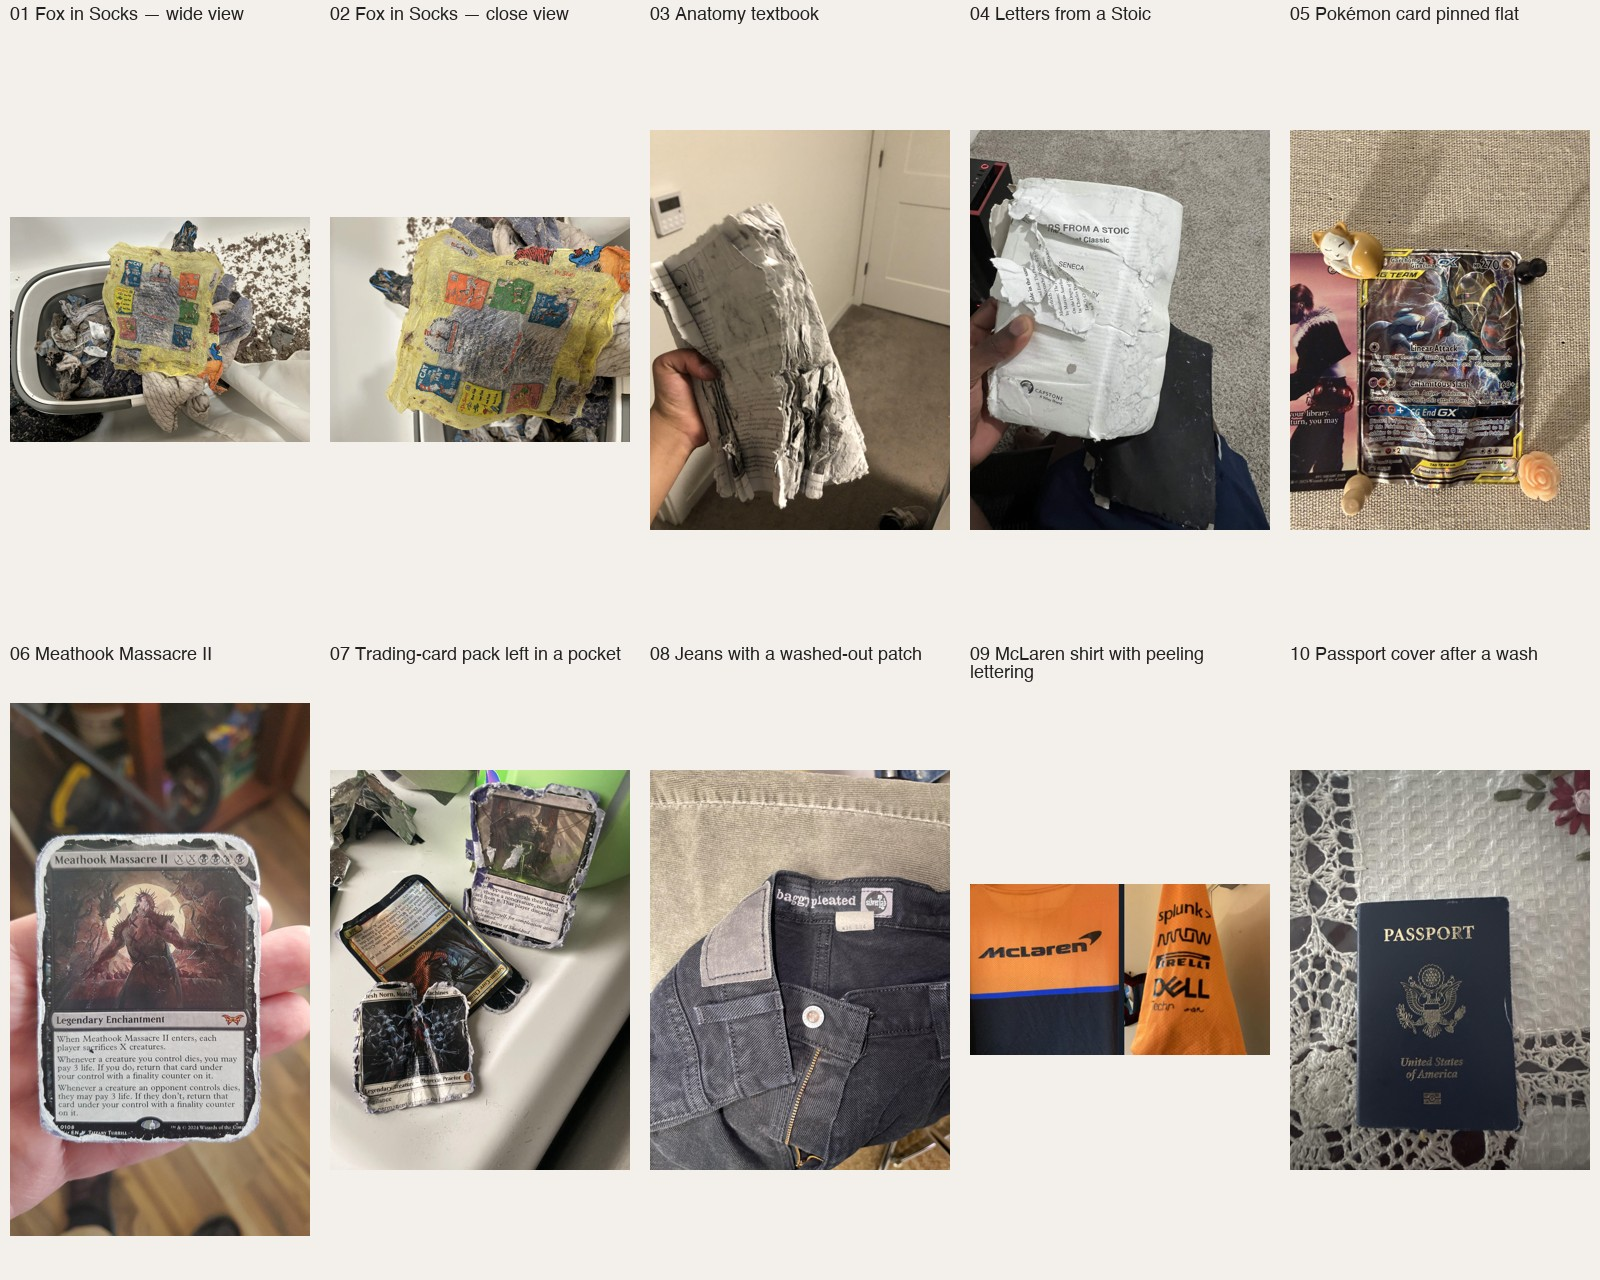
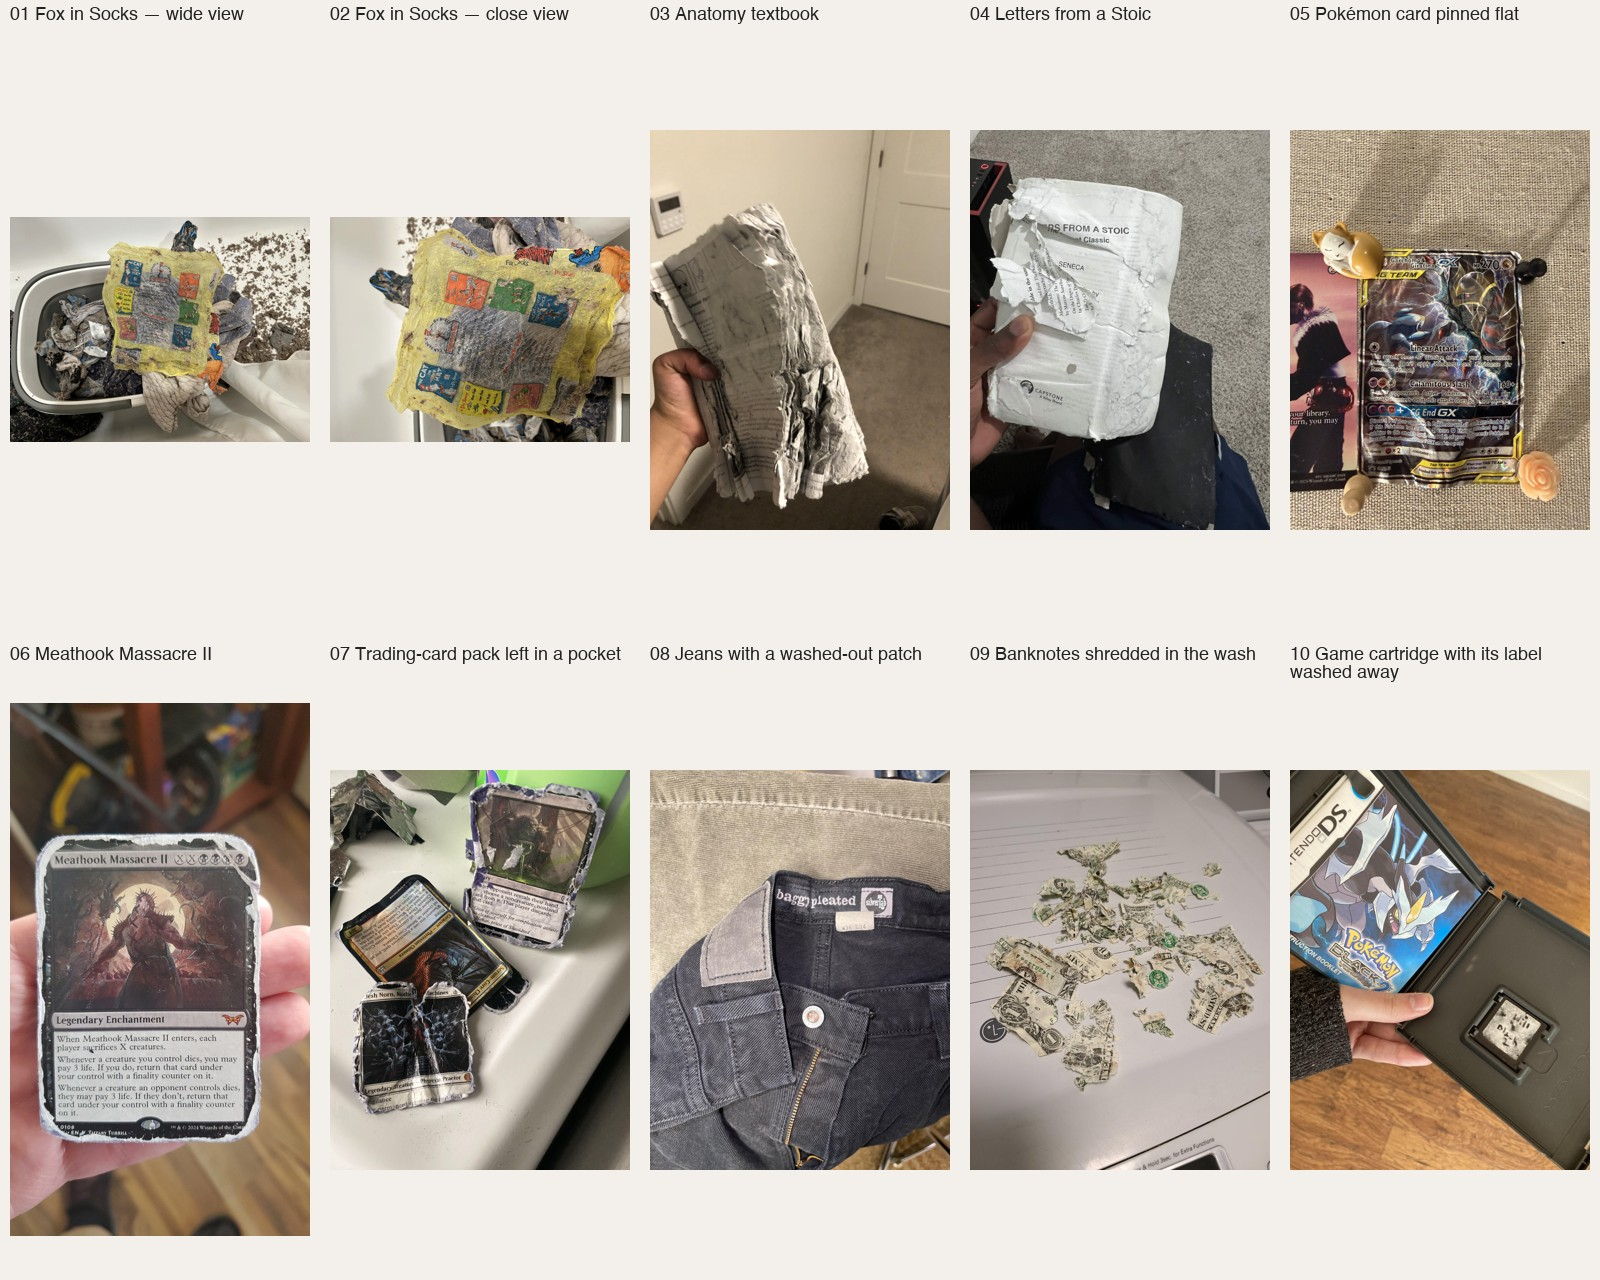
Replace mild passport and extra clothing with damaged money and cartridge

Changed region(s): [[0.5938, 0.5938, 1.0, 0.9375], [0.8125, 0.5, 0.9688, 0.5312], [0.625, 0.5, 0.7812, 0.5312]]

diff --git a/README.md b/README.md
@@ -16,8 +16,8 @@ Ten images of text-bearing objects that went through the wash: two supplied phot
 | 06 | [Meathook Massacre II](images/06-meathook-massacre.jpg) | Title and rules remain readable, with ragged edges and damaged border text. | [u/cartmicah3](https://www.reddit.com/r/mtg/comments/1fw9vqq/this_is_what_meathook_massacre_2_looks_like_going/) |
 | 07 | [Trading-card pack left in a pocket](images/07-shredded-card-pack.jpg) | Several cards retain title and rule fragments despite torn edges, folds and missing sections. | [u/Lipzilla](https://www.reddit.com/r/mtg/comments/129syxr/so_i_just_ruin_a_most_wanted_card_on_accident/) |
 | 08 | [Jeans with a washed-out patch](images/08-silvertab-jeans.jpg) | Inner baggy pleated and silverTab labels remain readable beside the almost blank back patch. | [u/carschap](https://www.reddit.com/r/VintageClothing/comments/xyrs37/rmildlyinfuriating_washed_these_one_time_and_the/) |
-| 09 | [McLaren shirt with peeling lettering](images/09-mclaren-shirt.jpg) | Several sponsor names survive; smaller lettering below DELL has partly disappeared. | [u/Secret674](https://www.reddit.com/r/McLarenFormula1/comments/n01x5c/as_much_as_i_love_mclaren_i_waited_two_month_is/) |
-| 10 | [Passport cover after a wash](images/10-passport-cover.jpg) | PASSPORT and country lettering remain legible on the cover. | [u/LemonResident9209](https://www.reddit.com/r/Passports/comments/1w4lepc/accidentally_washed_my_passport/) |
+| 09 | [Banknotes shredded in the wash](images/09-shredded-banknotes.jpg) | Denominations, lettering and serial-number fragments survive on scattered, torn banknote pieces. | [u/BocceBurger](https://www.reddit.com/r/mildlyinfuriating/comments/tyoljy/i_accidentally_washed_10/) |
+| 10 | [Game cartridge with its label washed away](images/10-washed-ds-cartridge.jpg) | The cartridge has a ruined printed label with handwritten markings; a readable game booklet sits beside it. | [u/Annual_Marsupial3039](https://www.reddit.com/r/gamecollecting/comments/177yav4/whats_the_best_way_to_restore_this_ds_cartridge/) |
 
 ## Files and provenance
 
@@ -25,7 +25,9 @@ Ten images of text-bearing objects that went through the wash: two supplied phot
 - `manifest.json`: attribution, source URLs, washing accounts, visual notes, dimensions and SHA-256 hashes.
 - `previews/contact-sheet.jpg`: a resized overview for browsing.
 
-The online washing accounts come from the people posting the images; they have not been independently verified. Image 09 is the source author's two-panel composite. Image 10 is an easy baseline with little visible damage. Images 01 and 02 show the same washed book, so the collection contains nine distinct washing events. Keep those two views together when splitting data.
+The online washing accounts come from the people posting the images; they have not been independently verified. Images 01 and 02 show the same washed book, so the collection contains nine distinct washing events. Keep those two views together when splitting data.
+
+Image 09 shows shredded banknotes; its washing account is disputed in the source comments and recorded as unverified. In image 10, the booklet beside the damaged cartridge is readable context, not washed material. Handwritten markings are visible on the cartridge, but their timing is unknown.
 
 This is a curated seed collection. No OCR runs, reference transcripts, or performance scores are included. Ground truth should distinguish readable text, partial text, and unrecoverable regions. Object names and source stories are context, not evidence that missing words can be read from an image. Keep source titles and descriptions out of image-only model inputs.
 
